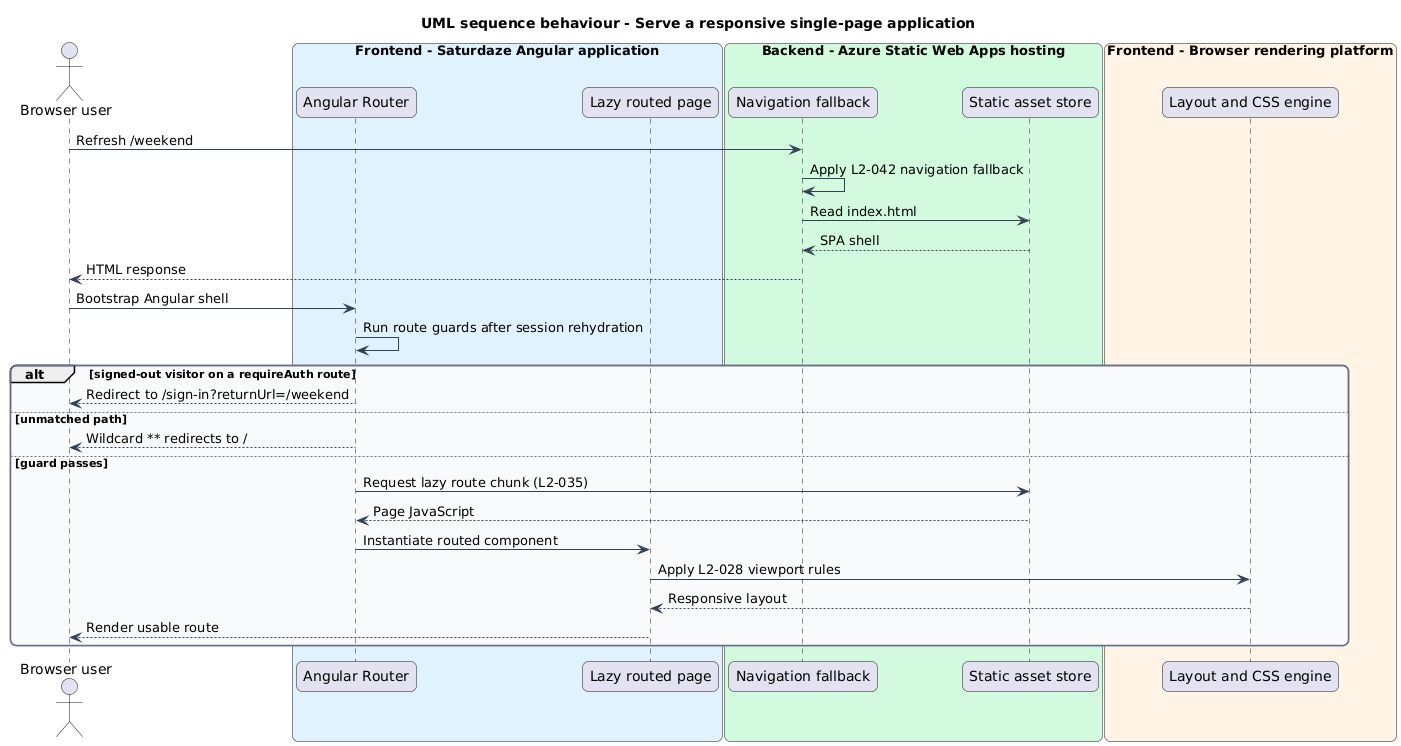
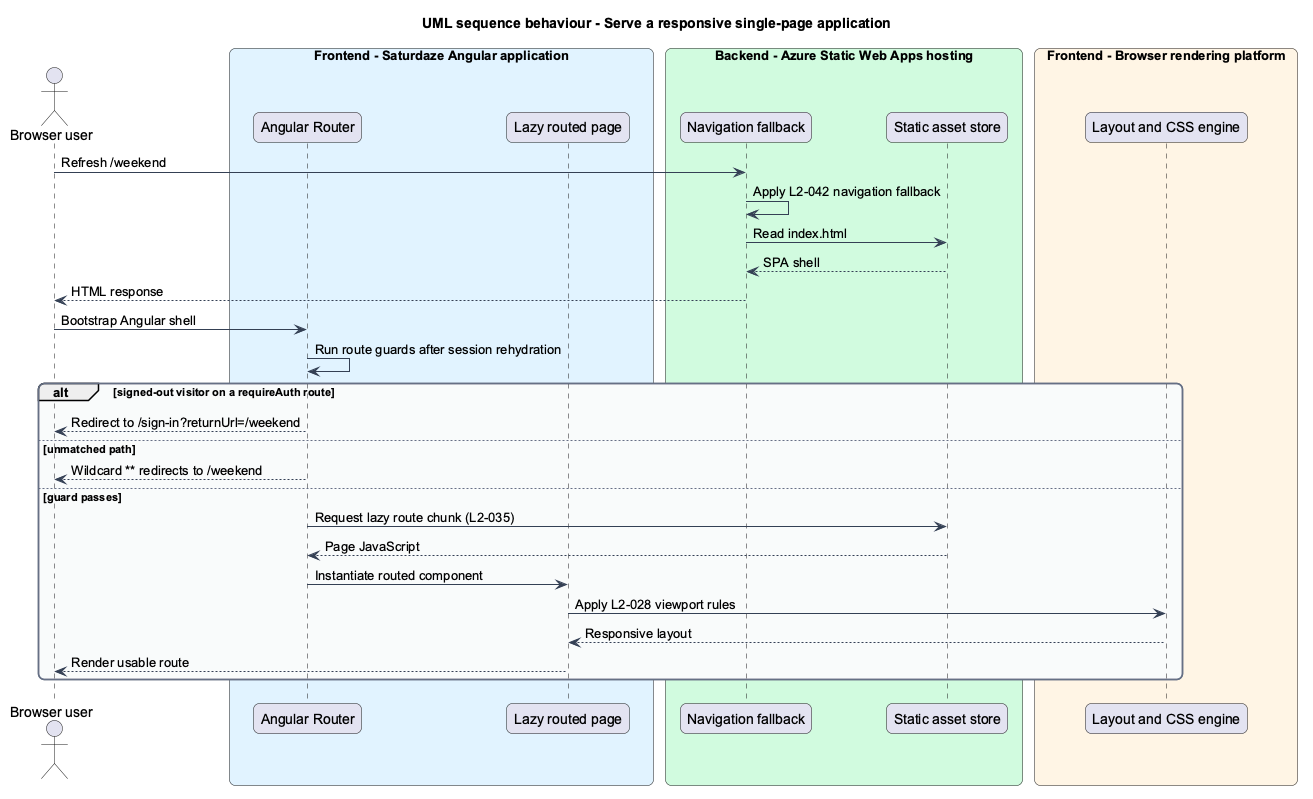
Decide and specify the marketing site at www.saturdaze.ca (ADR-018, L2-150 to L2-156)
Records the decision to move the landing page out of the Angular app into a
static site on a fourth Static Web App, with the app at app.saturdaze.ca,
adds the requirements and the detailed design, and revises L2-028, L2-035,
L2-041 and L2-138 to match.

diff --git a/docs/specs/L2.md b/docs/specs/L2.md
@@ -340,7 +340,7 @@ The `/past` page shall list activities that appeared in a past weekend rated ≤
 ## L2-028: All pages render correctly at every breakpoint
 **Traces to:** L1-011
 
-Every routed page (`/`, `/weekend`, `/ideas`, `/ideas/food`, `/ideas/events`, `/past`, `/family`, `/review-submissions`, `/legal`, `/sample-weekend`, all auth pages) shall render usably at viewport widths 320 px, 390 px, 820 px, 1440 px, and 1920 px. (Revised 2026-09-02 with the v2 design, [ADR-009](/docs/adr/ADR-009-v2-responsive-shell.md): the v1 split view is gone; the shell is a top bar from 720 px and a bottom nav below it.)
+Every routed page (`/weekend`, `/ideas`, `/ideas/food`, `/ideas/events`, `/past`, `/family`, `/review-submissions`, `/legal`, `/sample-weekend`, all auth pages) shall render usably at viewport widths 320 px, 390 px, 820 px, 1440 px, and 1920 px. (Revised 2026-09-02 with the v2 design, [ADR-009](/docs/adr/ADR-009-v2-responsive-shell.md): the v1 split view is gone; the shell is a top bar from 720 px and a bottom nav below it. Revised 2026-10-20: `/` is a redirect since the landing page moved to the marketing site, L2-155.)
 
 **Acceptance Criteria:**
 1. Given viewport 320×568, when any page is rendered, then no element shall overflow the horizontal viewport (no horizontal scroll).
@@ -348,7 +348,7 @@ Every routed page (`/`, `/weekend`, `/ideas`, `/ideas/food`, `/ideas/events`, `/
 3. Given viewport <720 px, when `/weekend` is rendered, then the map shall sit above the selected day's timeline in a single column, the bottom nav shall be present and clear of the device chrome (ADR-005), and each block row shall expose its details through the chevron rather than hover actions.
 4. Given viewport ≥720 px on a device with no hover (`hover: none`, such as a touch tablet), when `/weekend` is rendered, then each planner block's actions (Why this, Swap, Lock) shall be visible without hovering or focusing the block. On devices that hover, they stay hidden until the block is hovered or holds focus. (Added 2026-10-11, design drift D21.)
 5. Given a browser whose default text size is raised to 20 px (125 %), when a page is rendered in a window 820 px wide (41rem), then the layout shall be the one for widths under 720 px at the default size (bottom navigation present, top bar absent), and text sized from the type scale shall grow with it (a 26 px page title renders at 32.5 px). Breakpoints are 23.75 / 36 / 45 / 64rem and type sizes are in rem, so a reader's text size is honoured (WCAG 1.4.4). (Added 2026-10-11, design drift D24.)
-6. Given visual baselines captured from `docs/mocks-v2/` with `SD_BASELINE=1`, when the Playwright visual specs run, then each compared region shall match its baseline within the configured pixel-diff tolerance (the tiers and masks are [ADR-010](/docs/adr/ADR-010-visual-parity-policy.md)).
+6. Given visual baselines captured from `docs/mocks/` with `SD_BASELINE=1`, when the Playwright visual specs run, then each compared region shall match its baseline within the configured pixel-diff tolerance (the tiers and masks are [ADR-010](/docs/adr/ADR-010-visual-parity-policy.md)).
 
 ---
 
@@ -420,7 +420,7 @@ Read endpoints shall respond within 500 ms p95 on warm cache; write endpoints wi
 ## L2-035: Angular routes are lazy-loaded
 **Traces to:** L1-013
 
-Every rendered route component, including the landing page, shall be lazy-loaded via `loadComponent`, so the initial bundle excludes those pages' code.
+Every rendered route component shall be lazy-loaded via `loadComponent`, so the initial bundle excludes those pages' code. (Revised 2026-10-20: the landing page left the app for the marketing site, L2-155.)
 
 **Acceptance Criteria:**
 1. Given a production `ng build`, when the build output is inspected, then the output shall contain lazy route chunks for the current rendered pages, including `/sign-in`, `/create-account`, `/weekend`, `/ideas`, `/ideas/food`, `/ideas/events`, `/past`, and `/family`; redirect-only legacy paths shall not create page chunks.
@@ -492,7 +492,7 @@ Upstream provider exceptions (HTTP, JSON, timeout) shall be caught, logged at wa
 The `.github/workflows/deploy.yml` workflow shall run test gates on every push to `main`, then converge the Azure resource group on `eng/infra/main.bicep`, deploy the API together with the ingestion WebJob, apply EF migrations, deploy the Angular bundles, and smoke-test the result, in that order (ADR-017).
 
 **Acceptance Criteria:**
-1. Given passing backend and frontend gates, when deployment runs, then `infra`, `api`, `migrate`, `web`, `admin-web` and `smoke` shall succeed in dependency order.
+1. Given passing backend and frontend gates, when deployment runs, then `infra`, `api`, `migrate`, `web`, `admin-web`, `marketing-web` and `smoke` shall succeed in dependency order. (Revised 2026-10-20: `marketing-web`, L2-156.)
 2. Given a resource declared in `eng/infra/main.bicep` is absent from the resource group, when `infra` completes, then the resource shall exist and the later jobs shall deploy to it rather than being skipped.
 3. Given a database with all migrations applied, when migration runs, then it shall succeed without schema changes.
 4. Given a frontend upload, then its build output shall contain `staticwebapp.config.json` with SPA navigation fallback.
@@ -1404,10 +1404,10 @@ The numbered disc on a Weekend stop (L2-103) shall carry its meaning as text tha
 ## L2-138: Pages expose their landmarks and menu buttons
 **Traces to:** L1-014
 
-Pages shall expose their structure to assistive technology (WCAG 1.3.1, 4.1.2). The site footer on the landing and legal pages shall be the page's `contentinfo` landmark, placed outside `<main>`. A pager shall be a `navigation` landmark named "Pagination". A list of places or rows shall be a list (a `<ul>` or `role="list"` with list items). The account avatar in the top bar shall be a button that announces it opens a menu (`aria-haspopup="menu"`), named "Account menu".
+Pages shall expose their structure to assistive technology (WCAG 1.3.1, 4.1.2). The site footer on the legal page shall be the page's `contentinfo` landmark, placed outside `<main>`. A pager shall be a `navigation` landmark named "Pagination". A list of places or rows shall be a list (a `<ul>` or `role="list"` with list items). The account avatar in the top bar shall be a button that announces it opens a menu (`aria-haspopup="menu"`), named "Account menu".
 
 **Acceptance Criteria:**
-1. Given the landing page, then the footer shall be a `contentinfo` landmark that is not inside `main`.
+1. Given the marketing page, then the footer shall be a `contentinfo` landmark that is not inside `main`. (Revised 2026-10-20: the landing page moved to the marketing site, L2-150.)
 2. Given the legal page, then the footer shall be a `contentinfo` landmark that is not inside `main`.
 3. Given a paged admin list, then its pager shall be a `navigation` landmark named "Pagination".
 4. Given the signed-in top bar, then the account button named "Account menu" shall have `aria-haspopup="menu"`.
@@ -1555,6 +1555,87 @@ When an administrator rejects a family's event suggestion, the submitter shall b
 3. Given that card, when the submitter taps "Dismiss", then `POST /api/events/submissions/{id}/dismiss` shall return 204, the card shall disappear, and it shall stay gone after a reload.
 4. Given another user's suggestion, when its dismiss endpoint is called, then the response shall be 404 and the suggestion shall not change.
 5. Given a rejection without a reason, when the card or the email is shown, then it shall say "No reason was given."
+
+---
+
+## L2-150: Marketing page sections and calls to action
+**Traces to:** L1-011
+
+The page at `https://www.saturdaze.ca/` is one static HTML file, `marketing/index.html`, outside the Angular workspace (ADR-018). Every call to action opens the app at `https://app.saturdaze.ca`.
+
+**Acceptance Criteria:**
+1. Given a visitor opens the page, then it shows, in order: a skip link; a sticky header with the Saturdaze wordmark, anchor links (How it works, Inside the app, For families) and "Open the app"; a hero; a "watch" section with the one-minute brand video; a three-step "how it works" section; an "inside the app" gallery of real screenshots; a "for families" grid; a final call to action; and a footer.
+2. Given the hero, then its level-1 heading reads "Two days. Already planned.", its primary link "Create your account" opens `https://app.saturdaze.ca/create-account`, it says "Free during the beta.", and its text link "See how it works" moves to the how-it-works section.
+3. Given the header and the final call to action, then "Open the app" and "Sign in" open `https://app.saturdaze.ca/sign-in`, and the final "Create your account" opens `https://app.saturdaze.ca/create-account`.
+4. Given the how-it-works section, then its heading reads "How a weekend comes together" and it lists three steps: "Tell us who is in the family", "Lock what does not move" and "Get a weekend every Friday".
+5. Given the gallery, then it shows four screenshots of the app (the weekend, ideas, the family and past weekends); every one loads, is shown undistorted and has alt text describing it.
+6. Given the for-families grid, then it covers commitments that do not move, ideas within a short drive, errands folded into the day, and the weather.
+7. Given the watch section, then its heading reads "Saturdaze in one minute." and it holds the brand video (`docs/videos/44-meet-saturdaze`) served from the site itself, with a poster frame and the browser's controls; it does not play on its own.
+8. Given the footer, then it links Terms to `https://app.saturdaze.ca/legal`, Privacy to `https://app.saturdaze.ca/legal#privacy` and Sign in to `https://app.saturdaze.ca/sign-in`, and it shows the current year.
+9. Given light or dark device appearance, then the page uses the Saturdaze tokens of that theme, generated from the TypeScript theme into `marketing/assets/tokens.css` (ADR-013).
+
+---
+
+## L2-151: Marketing page layout and mobile navigation
+**Traces to:** L1-011, L1-014
+
+**Acceptance Criteria:**
+1. Given a phone (390 px), tablet (820 px) or desktop (1440 px) width, when the page loads, then nothing scrolls sideways.
+2. Given a width below 64rem, then the anchor links are replaced by a button named "Open navigation" with `aria-controls="mobile-menu"` and `aria-expanded="false"`, and the closed menu is `inert`.
+3. Given the menu button has focus, when Enter is pressed, then the menu opens, the button is named "Close navigation" with `aria-expanded="true"`, and the menu's links can be reached.
+4. Given the menu is open, when Escape is pressed or a menu link is chosen, then the menu closes and is `inert` again.
+
+---
+
+## L2-152: Marketing page reduced motion
+**Traces to:** L1-011, L1-014
+
+**Acceptance Criteria:**
+1. Given motion is allowed, when a section scrolls into view, then it fades and rises into place.
+2. Given `prefers-reduced-motion: reduce`, when the page loads, then every section is fully visible at once, with no transition.
+
+---
+
+## L2-153: Marketing page metadata
+**Traces to:** L1-011
+
+**Acceptance Criteria:**
+1. Given the page, then it has a title, a description, a `theme-color` per colour scheme, a canonical link to `https://www.saturdaze.ca/`, Open Graph tags (type, url, title, description, and a 1200x630 `https://www.saturdaze.ca/assets/social-card.png` image with its size and alt), Twitter `summary_large_image` tags, and an SVG icon.
+2. Given `/robots.txt`, then it allows every agent and names `https://www.saturdaze.ca/sitemap.xml`.
+3. Given `/sitemap.xml`, then it lists `https://www.saturdaze.ca/`.
+
+---
+
+## L2-154: Marketing page security headers
+**Traces to:** L1-012
+
+**Acceptance Criteria:**
+1. Given any response from the marketing site, then it carries `Content-Security-Policy: default-src 'self'; base-uri 'self'; connect-src 'self'; font-src 'self'; form-action 'self'; frame-ancestors 'none'; img-src 'self' data:; object-src 'none'; script-src 'self'; style-src 'self'`, `Strict-Transport-Security`, `X-Content-Type-Options: nosniff`, `Referrer-Policy: strict-origin-when-cross-origin` and `Permissions-Policy: camera=(), geolocation=(), microphone=()`. The headers are declared in `marketing/staticwebapp.config.json`.
+2. Given the page loads under that policy, then nothing is blocked and no request leaves the page's origin: it has no inline scripts or styles, no third-party scripts or fonts, and no analytics.
+
+---
+
+## L2-155: The app lives at app.saturdaze.ca and no longer carries the landing page
+**Traces to:** L1-011
+
+The Angular app is served at `https://app.saturdaze.ca`; its landing page is retired in favour of the marketing site (ADR-018).
+
+**Acceptance Criteria:**
+1. Given an anonymous visitor, when they open `/`, then they land on `/sign-in?returnUrl=%2Fweekend`; given a signed-in user, when they open `/`, then they land on `/weekend`.
+2. Given an unknown path such as `/no-such-page`, when it is opened, then it is treated as `/` in AC1.
+3. Given a page with the site bar (such as `/legal`), then its wordmark links to the marketing site (`environment.siteUrl`, `https://www.saturdaze.ca/` in production); given an authentication page (such as `/sign-in`), then the brand and "Back to Saturdaze" link there too.
+4. Given an anonymous visitor opens `/sample-weekend` without a share token, then they land on `/sign-in`.
+5. Given production configuration, then e-mail is sent from `Saturdaze <no-reply@saturdaze.ca>`, share and invite links start with `https://app.saturdaze.ca/`, and the admin app's "Open Saturdaze" opens `https://app.saturdaze.ca`.
+
+---
+
+## L2-156: The marketing site is provisioned and deployed with the stack
+**Traces to:** L1-016
+
+**Acceptance Criteria:**
+1. Given `eng/infra/main.bicep`, then it declares a fourth Static Web App, `sd-www-<suffix>`, and binds `www.saturdaze.ca` (from `MARKETING_CUSTOM_DOMAIN`) and, when set, the apex (from `MARKETING_APEX_DOMAIN`) to it.
+2. Given a push to `main`, when `deploy.yml` runs, then a `marketing-web` job uploads `marketing/` to that app, and `smoke` loads its home page, finds "Two days" and a `Content-Security-Policy` header.
+3. Given the apex is bound, when `https://saturdaze.ca/` is requested, then it is answered with a permanent redirect to `https://www.saturdaze.ca/`.
 
 ---
 

diff --git a/docs/detailed-designs/web-experience/serve-marketing-site/README.md b/docs/detailed-designs/web-experience/serve-marketing-site/README.md
@@ -1,0 +1,91 @@
+# Serve the marketing site
+
+## Overview
+
+Saturdaze drafts a family's weekend around its commitments, the weather and the places nearby. Until now the only page that explained it lived inside the Angular app at `/`, so it shipped with the app, could carry no metadata of its own, and had no room for a video or screenshots.
+
+This feature, part of the `web-experience` subsystem, moves that page to a static site at `https://www.saturdaze.ca` and moves the app to `https://app.saturdaze.ca` (ADR-018). The page follows Shelfie's marketing page: one HTML file, one stylesheet, one small script, a one-minute brand video and real screenshots of the app. It lives outside the Angular workspace, so the components-library rule does not apply to it.
+
+*marketing site* — `marketing/` at the repository root, served at `https://www.saturdaze.ca/` from the Static Web App `sd-www-<suffix>`
+
+*app host* — `app.saturdaze.ca`, bound to the family Static Web App through `APP_CUSTOM_DOMAIN`
+
+*bare domain* — `saturdaze.ca` with no subdomain, which only redirects to `www`
+
+*site URL* — `environment.siteUrl` in the family app: `https://www.saturdaze.ca` in production, `http://localhost:4500` in development
+
+## Description
+
+### The page
+
+`marketing/index.html` holds, in order: a skip link; a sticky header with the wordmark, anchor links (How it works, Inside the app, For families), "Open the app" and a menu button; the hero ("Two days. Already planned.", "Create your account", "Free during the beta.", "See how it works") beside a screenshot of the Weekend screen inside a browser frame; "Saturdaze in one minute." with the brand video; the three steps carried over from the retired landing page; "Inside the app", four tinted cards with real screenshots; "For families", a grid on commitments, ideas within a short drive, errands and weather; a final call to action; and a footer with Terms, Privacy, Sign in and the year (`L2-150`). Every call to action is an absolute link to `https://app.saturdaze.ca`.
+
+`marketing/assets/tokens.css` is written by `npm run tokens` from the TypeScript theme (ADR-013), next to `_tokens.scss`, and `tokens:check` fails when it is stale. Light and dark follow the device exactly as in the app (`L2-150` AC9). `marketing/assets/saturdaze.css` reads only those tokens by role (`--colorBrandBackground` for fills, `--colorNeutralForeground2` for soft text). Card washes are classes (`tint-bg-*`), never inline styles, so `style-src 'self'` holds. The page uses the app's system font stack and ships no fonts. Below 64rem the anchor links give way to the menu button (`L2-151`).
+
+`marketing/assets/saturdaze.js` adds `reveal-ready` to `<html>`; toggles the menu, keeping `aria-expanded`, the button's name and the menu's `inert` in step, and closes it on Escape, on a menu link and when the window grows past 64rem; marks the header once scrolled; reveals `[data-reveal]` sections with an `IntersectionObserver`, or all at once under reduced motion; and writes the footer year (`L2-151`, `L2-152`).
+
+The head carries a title, description, `theme-color` per scheme, a canonical link, Open Graph and Twitter `summary_large_image` tags with `assets/social-card.png` (1200x630) and `assets/icon.svg`; `robots.txt` and `sitemap.xml` sit beside it (`L2-153`).
+
+### Headers
+
+`marketing/staticwebapp.config.json` declares `globalHeaders`: the Content-Security-Policy (`default-src 'self'`, `script-src 'self'`, `style-src 'self'`, `img-src 'self' data:`, `frame-ancestors 'none'`, `object-src 'none'`), `Strict-Transport-Security`, `X-Content-Type-Options`, `Referrer-Policy` and `Permissions-Policy` (`L2-154`). It has no navigation fallback, so an unknown path is a 404. A few muscle-memory paths (`/sign-in`, `/create-account`, `/legal`, `/weekend`) redirect to the app host; e-mailed links never use them, because the API builds them on `Share:AppOrigin`.
+
+### Media
+
+The video is `docs/videos/44-meet-saturdaze`, recorded from the real app with `tools/video-record` and narrated with Azure Speech `en-US-JennyNeural` (`cheerful`, `-5%`) through the `azure` engine of `tools/video-audio/generate-audio.mjs`. The built MP4 is copied to `marketing/assets/video/meet-saturdaze.mp4`, and its poster is one frame taken with `ffmpeg`. The page's `<video>` has `controls`, `playsinline`, `preload="metadata"` and a poster, and no `autoplay` (`L2-150` AC7). `tools/marketing-screenshots/capture.mjs` signs in the seeded family, captures the Weekend, Ideas, Family and Past screens and renders `social-card.html` to `assets/social-card.png`.
+
+### The app
+
+`app.routes.ts` loses the landing route: `/` and `**` redirect to `/weekend`, so `requireAuth` sends an anonymous visitor to `/sign-in?returnUrl=%2Fweekend` (`L2-155` AC1, AC2). `Sitebar` and `AuthShell` gain a `homeHref` input, `/` by default, rendered as a plain `href` on the wordmark and on "Back to Saturdaze"; the family app passes the site URL, the admin app keeps the default (`L2-155` AC3). The legal page, the shared weekend and the dialogs gallery keep the site shell.
+
+`saturdaze.app` becomes `saturdaze.ca` everywhere: the e-mail sender, the admin app's family-app link, the seed accounts and the sample URLs in stories. `Share:AppOrigin` already derives from `APP_CUSTOM_DOMAIN`, so share and invite links follow the variable (`L2-155` AC5).
+
+### Hosting and deploy
+
+`eng/infra/main.bicep` declares `marketingSwa` (`sd-www-<suffix>`, the same SKU as the others) with two optional custom domains, `marketingCustomDomain` and `marketingApexDomain`, and outputs its name and host. `deploy.yml` passes `MARKETING_CUSTOM_DOMAIN` and `MARKETING_APEX_DOMAIN` to the template, adds a `marketing-web` job that uploads `marketing/` like the `web` job uploads the Angular build, and extends `smoke` to load the page, check its headline and CSP header and, when the apex is bound, its redirect (`L2-156`).
+
+### DNS
+
+At Namecheap: `CNAME app` to the family app's default host, `CNAME www` to the marketing app's default host, `ALIAS @` to the marketing app's default host, and the `_dnsauth` TXT records Static Web Apps asks for. In the portal, `www.saturdaze.ca` is made the default domain so the apex redirects to it; if that does not hold, the apex is left unbound and a Namecheap URL redirect does the job (ADR-018).
+
+### Tests
+
+`e2e/fixtures/marketing-server.mjs` serves `marketing/` on port 4500 with the headers from `staticwebapp.config.json`, so a test sees what production would block. The Playwright project `marketing` runs `e2e/tests/marketing/`, with selectors in `e2e/pages/marketing.page.ts`: `marketing.spec.ts` covers the sections, links and video (`L2-150`), `marketing-layout.spec.ts` sideways scroll, the keyboard menu and reduced motion (`L2-151`, `L2-152`), and `marketing-metadata.spec.ts` the tags, robots, sitemap and a load under the policy with no violations and no off-origin requests (`L2-153`, `L2-154`). `marketing.visual.spec.ts` compares the page with `docs/mocks/pages/marketing.html` (ADR-010). `route-guards.spec.ts`, `legal.spec.ts`, `sign-in.spec.ts` and `shared-weekend.spec.ts` cover `L2-155`.
+
+## Requirements
+
+| L2 ID | Refines (L1) | Requirement |
+|-------|--------------|-------------|
+| `L2-150` | `L1-011` | Marketing page sections and calls to action to `app.saturdaze.ca` |
+| `L2-151` | `L1-011`, `L1-014` | No sideways scroll at phone, tablet and desktop widths; labelled, keyboard-operable, `inert` mobile menu |
+| `L2-152` | `L1-011`, `L1-014` | Reveal on scroll, switched off under reduced motion |
+| `L2-153` | `L1-011` | Meta, Open Graph, Twitter and canonical tags; `robots.txt`; `sitemap.xml` |
+| `L2-154` | `L1-012` | Strict CSP and security headers; no third-party requests |
+| `L2-155` | `L1-011` | The app at `app.saturdaze.ca` without the landing page; links back to the marketing site |
+| `L2-156` | `L1-016` | A fourth Static Web App, its domains, its deploy job and smoke checks |
+
+## Diagrams
+
+### System context
+
+Visitors read the marketing site; family members use the app; Namecheap holds the records; Static Web Apps serves both sites.
+
+![C4 system context for serving the marketing site](diagrams/c4-context.png)
+
+### Containers
+
+Four Static Web Apps and the API in one resource group. The marketing site never calls the API.
+
+![C4 container view for serving the marketing site](diagrams/c4-container.png)
+
+### Behaviour — a request to the bare domain
+
+The apex answers with a permanent redirect to `www`, which serves the page with its security headers.
+
+![Sequence diagram for the bare-domain redirect](diagrams/sequence-bare-domain-redirect.png)
+
+### Behaviour — a push to main deploys the marketing site
+
+The template converges the fourth app; `marketing-web` uploads the folder; `smoke` checks the page and the redirect.
+
+![Sequence diagram for deploying the marketing site](diagrams/sequence-deploy.png)

diff --git a/docs/adr/ADR-018-marketing-site-and-app-host.md b/docs/adr/ADR-018-marketing-site-and-app-host.md
@@ -1,0 +1,57 @@
+# ADR-018 — A static marketing site at www.saturdaze.ca, and the app moves to app.saturdaze.ca
+
+**Status:** Accepted
+**Date:** 2026-10-20
+**Category:** operations
+**Deciders:** Quinntyne Brown
+**Related:** [ADR-009](ADR-009-v2-responsive-shell.md) (site shell), [ADR-010](ADR-010-visual-parity-policy.md) (visual parity), [ADR-013](ADR-013-fluent-design-tokens.md) (tokens), [ADR-017](ADR-017-production-hosting-and-continuous-deployment.md) (hosting), L2-150 to L2-156.
+
+## Context
+
+The only page that tells a family what Saturdaze is lives inside the Angular app: the landing page at `/`, guarded so signed-in users skip it. It ships with the app's bundle, it cannot be indexed or shared on its own, and it has no room for a video, screenshots or Open Graph tags. Shelfie solved the same problem with a static marketing page at `www.shelfie.kids` and the app at `app.shelfie.kids`; Saturdaze follows that shape on its own hosting (ADR-017). The domain is `saturdaze.ca`, held at Namecheap; `saturdaze.app`, named in ADR-017, was never bound.
+
+## Decision
+
+1. **Hosts.** `https://www.saturdaze.ca` serves the marketing page. `https://app.saturdaze.ca` serves the Angular app. The bare domain `saturdaze.ca` redirects permanently to `https://www.saturdaze.ca/`. The API keeps its own host; it never served the marketing page.
+2. **A fourth Static Web App.** `eng/infra/main.bicep` declares `sd-www-<suffix>` beside the family, admin and design-system apps, on the same SKU parameter. `www.saturdaze.ca` and the apex bind to it through `marketingCustomDomain` and `marketingApexDomain`; `app.saturdaze.ca` binds to the family app through the existing `appCustomDomain`. `deploy.yml` uploads `marketing/` in a `marketing-web` job and the smoke job loads the page and checks its security headers.
+3. **Static page outside the workspace.** `marketing/` holds plain HTML, CSS and JavaScript with no framework and no build. It is not an Angular project, so the components-library rule does not apply to it. Its `staticwebapp.config.json` sets a strict Content-Security-Policy (`default-src 'self'`, no inline script or style) and the other security headers, so the page has no inline code and no third-party requests.
+4. **Tokens are generated, not copied.** `npm run tokens` writes `marketing/assets/tokens.css` from the same TypeScript theme as `_tokens.scss`, and `tokens:check` fails CI when it is stale. Shelfie copies its token file by hand and lists that as a cost; here the theme stays the single source (ADR-013).
+5. **The landing page leaves the app.** `/` and every unknown path redirect to `/weekend`; `requireAuth` sends an anonymous visitor on to `/sign-in?returnUrl=%2Fweekend`. The site bar wordmark and the auth shell's "Back to Saturdaze" link to the marketing site through `environment.siteUrl`. The legal page, the shared weekend and the dialogs gallery keep the site shell.
+6. **One domain everywhere.** E-mail is sent from `no-reply@saturdaze.ca`, share and invite links are built on `https://app.saturdaze.ca` (`Share:AppOrigin`, derived from `APP_CUSTOM_DOMAIN`), the admin app links to it, and the seed accounts use `@saturdaze.ca` addresses.
+7. **A brand video.** "Meet Saturdaze" (`docs/videos/44-meet-saturdaze`) is recorded from the real app and narrated with Azure Speech `en-US-JennyNeural`, `cheerful` style, rate `-5%`, the voice Shelfie's brand video uses. `tools/video-audio/generate-audio.mjs` gains an `azure` engine for it; the other videos keep the free Edge voices. The page serves the MP4 itself with a poster and the browser's controls; it does not autoplay.
+
+## Options Considered
+
+### Option 1: Static site on a fourth Static Web App (chosen)
+- **Pros:** Same platform, same Bicep, same OIDC deploy; Free tier costs nothing; headers are declared in the repo.
+- **Cons:** Static Web Apps has no first-class apex-to-www redirect (see Risks).
+
+### Option 2: Keep the landing page in the Angular app
+- **Pros:** No new host.
+- **Cons:** The marketing page ships with the app, cannot carry its own metadata or strict CSP, and every copy change is an app release.
+
+### Option 3: Serve the marketing page from the family Static Web App under a path
+- **Pros:** One fewer resource.
+- **Cons:** One host cannot be both `www` and `app`; the SPA navigation fallback and the app's CSP would apply to the marketing page.
+
+## Consequences
+
+### Positive
+- A shareable, indexable page with Open Graph metadata, real screenshots and a one-minute video.
+- The app's initial route is the app; nothing in the bundle exists only for visitors.
+- Rolling the marketing page back is a revert of `marketing/`; it never touches the app.
+
+### Negative
+- Production's existing administrator row is `admin@saturdaze.app`. The seeder matches by e-mail, so before the first deploy with the renamed seed the row is renamed once: `UPDATE Users SET Email = 'admin@saturdaze.ca', NormalizedEmail = 'ADMIN@SATURDAZE.CA' WHERE Email = 'admin@saturdaze.app'` (adjust to the columns the `Users` table holds). Without it the seeder adds a second administrator.
+- The MP4 is committed twice (in `docs/videos/44-meet-saturdaze/` and `marketing/assets/video/`), a few megabytes each.
+- `marketing/` is outside `frontend/`, so the husky hook does not format it; CI runs Prettier on it explicitly.
+
+### Risks
+- **Apex redirect.** Static Web Apps documents binding an apex domain (TXT validation plus an ALIAS record, which Namecheap supports) but not an automatic redirect to `www`. The plan binds the apex to `sd-www-<suffix>` and makes `www.saturdaze.ca` the default domain in the portal, then checks `curl -sI https://saturdaze.ca/` for a 301 to `https://www.saturdaze.ca/`. If that does not hold, leave `MARKETING_APEX_DOMAIN` blank and use Namecheap's URL redirect record for `@`.
+
+## Implementation Notes
+
+- Repository variables: `APP_CUSTOM_DOMAIN=app.saturdaze.ca`, `MARKETING_CUSTOM_DOMAIN=www.saturdaze.ca`, `MARKETING_APEX_DOMAIN=saturdaze.ca`.
+- Namecheap records for `saturdaze.ca`: `CNAME app` → the family Static Web App's default host; `CNAME www` → the marketing Static Web App's default host; `ALIAS @` → the marketing default host; TXT `_dnsauth.app`, `_dnsauth.www` and `_dnsauth` with the tokens from `az staticwebapp hostname show -n <swa> -g saturdaze-rg --hostname <host> --query validationToken -o tsv`.
+- Local preview: `node e2e/fixtures/marketing-server.mjs ../marketing 4500` from `e2e/` serves the page with the production headers on `http://localhost:4500`, the dev `siteUrl`.
+- Narration: `export SPEECH_REGION=canadacentral SPEECH_KEY=…` then `node tools/video-audio/generate-audio.mjs docs/videos/44-meet-saturdaze --engine azure`.

diff --git a/docs/detailed-designs/web-experience/serve-responsive-spa/README.md b/docs/detailed-designs/web-experience/serve-responsive-spa/README.md
@@ -12,11 +12,11 @@ Saturdaze combines an Angular web application, an ASP.NET Core API, SQL Server p
 
 `app.routes.ts` lazily loads rendered pages and defines legacy redirects. `App` merges route data along the active path and selects app, site, or bare chrome.
 
-The app shell serves Weekend, Ideas, Past, Family, and Review submissions. Site chrome serves landing, legal, and shared-weekend pages; authentication uses bare chrome. `requireAnonymous`, `requireAuth`, and `requireAdmin` enforce route access.
+The app shell serves Weekend, Ideas, Past, Family, and Review submissions. Site chrome serves the legal and shared-weekend pages (the landing page moved to the marketing site, [serve-marketing-site](../serve-marketing-site/README.md)); authentication uses bare chrome. `requireAnonymous`, `requireAuth`, and `requireAdmin` enforce route access.
 
 Below 720 px, app routes use bottom navigation; from 720 px they use the top bar. The weekend's `.sd-grid-days` stacks days below 1024 px and sets two day columns from 1024 px. `_breakpoints.scss`, `_global.scss`, and component/page SCSS preserve the BEM class contract with `docs/mocks`.
 
-Legacy paths such as `/login`, `/profile`, `/saved`, and `/itinerary` redirect to `/sign-in`, `/family`, `/past`, and `/weekend`. The `**` wildcard redirects any unmatched path to `/`. The `/dialogs` gallery route and the dev state overrides exist only when `environment.galleryRoutes` is enabled; the production environment disables it.
+Legacy paths such as `/login`, `/profile`, `/saved`, and `/itinerary` redirect to `/sign-in`, `/family`, `/past`, and `/weekend`. `/` and the `**` wildcard redirect to `/weekend`, where `requireAuth` sends an anonymous visitor on to sign-in (L2-155). The `/dialogs` gallery route and the dev state overrides exist only when `environment.galleryRoutes` is enabled; the production environment disables it.
 
 `staticwebapp.config.json` provides deep-route fallback. ADR-010 defines visual tiers, masks, and mock-derived baselines; rendering bounds remain 320 through 1920 px.
 
@@ -32,8 +32,8 @@ The following L2 requirements refine the cited L1 capabilities. Implementation g
 
 | L2 ID | Refines (L1) | Requirement |
 |-------|--------------|-------------|
-| `L2-028` | `L1-011` | Every routed page (`/`, `/weekend`, `/ideas`, `/ideas/food`, `/ideas/events`, `/past`, `/family`, `/review-submissions`, `/legal`, `/sample-weekend`, all auth pages) shall render usably at viewport widths 320 px, 390 px, 820 px, 1440 px, and 1920 px. (Revised 2026-09-02 with the v2 design, [ADR-009](/docs/adr/ADR-009-v2-responsive-shell.md): the v1 split view is gone; the shell is a top bar from 720 px and a bottom nav below it.) |
-| `L2-035` | `L1-013` | Every rendered route component, including the landing page, shall be lazy-loaded via `loadComponent`, so the initial bundle excludes those pages' code. |
+| `L2-028` | `L1-011` | Every routed page (`/weekend`, `/ideas`, `/ideas/food`, `/ideas/events`, `/past`, `/family`, `/review-submissions`, `/legal`, `/sample-weekend`, all auth pages) shall render usably at viewport widths 320 px, 390 px, 820 px, 1440 px, and 1920 px. (Revised 2026-09-02 with the v2 design, [ADR-009](/docs/adr/ADR-009-v2-responsive-shell.md): the v1 split view is gone; the shell is a top bar from 720 px and a bottom nav below it.) |
+| `L2-035` | `L1-013` | Every rendered route component shall be lazy-loaded via `loadComponent`, so the initial bundle excludes those pages' code. |
 | `L2-042` | `L1-011`, `L1-016` | Refreshing any client-side route (e.g., `/sign-in`, `/weekend`, `/ideas/events`) on the Static Web App shall return the SPA shell, not a 404. |
 
 ## Diagrams

diff --git a/docs/adr/ADR-009-v2-responsive-shell.md b/docs/adr/ADR-009-v2-responsive-shell.md
@@ -19,7 +19,7 @@ The first design (`docs/mocks`, now deleted) was a phone app drawn inside a 440p
 | shell | chrome | routes |
 | --- | --- | --- |
 | `app` (default) | `sd-top-bar` from 720px, `sd-bottom-nav` below it | weekend, ideas, past, family, review-submissions |
-| `site` | `sd-sitebar` (brand, Sign in, optional CTA) | landing, legal, shared weekend, dialogs gallery |
+| `site` | `sd-sitebar` (brand, Sign in, optional CTA) | legal, shared weekend, dialogs gallery (landing until 2026-10-20, ADR-018) |
 | `bare` | none | sign-in, create-account, reset-password, verify-email |
 
 Route data is merged along `pathFromRoot`, so the Ideas children inherit `nav: 'ideas'`. The shell writes `body[data-shell]` and `body[data-page]`, which the mocks also carry, so the e2e harness can wait for a page the same way against both.
@@ -36,7 +36,7 @@ The mock's classes and ARIA state are the whole contract. Components do not refl
 
 ### 3. Per-component encapsulated SCSS, copied from the mock stylesheet
 
-Each component's SCSS is the matching block of `app.css` with `:host` / `:host(.modifier)` substitutions. Global SCSS holds only the reset, tokens and `sd-`-prefixed layout utilities (`.sd-frame`, `.sd-narrow`, `.sd-grid-days`, `.sd-grid-cards`, `.sd-vdivider` …). Single-use blocks (landing hero and steps, legal prose, the family grid, the review queue, the past strip, the dialogs gallery) live in the page that uses them. The production budget stays at 6kB warn / 10kB error per component style.
+Each component's SCSS is the matching block of `app.css` with `:host` / `:host(.modifier)` substitutions. Global SCSS holds only the reset, tokens and `sd-`-prefixed layout utilities (`.sd-frame`, `.sd-narrow`, `.sd-grid-days`, `.sd-grid-cards`, `.sd-vdivider` …). Single-use blocks (landing hero and steps until ADR-018 moved them to the marketing site, legal prose, the family grid, the review queue, the past strip, the dialogs gallery) live in the page that uses them. The production budget stays at 6kB warn / 10kB error per component style.
 
 Two component-authoring rules came out of the port and are worth keeping:
 

diff --git a/docs/detailed-designs/web-experience/support-accessible-interaction/README.md b/docs/detailed-designs/web-experience/support-accessible-interaction/README.md
@@ -34,7 +34,7 @@ The feature crosses the application and platform boundaries needed to deliver it
 
 - **`Error banner and field error`** — `sd-banner` takes `role` (`alert` for errors, `status` otherwise) and sets no `aria-live`; `alert` and `status` already imply their live regions, so a second declaration is removed. Error banners pass `icon="alert"` and `sd-text-input`'s error line draws the `alert` icon, never `close` (L2-136).
 
-- **`Landmarks and menu buttons`** — the app shell renders a `SiteFooter` (`app/shell/site-footer.ts`) after `<main>` when a route sets `data.footer`, so the landing and legal footers are `contentinfo` landmarks instead of generic footers inside `<main>`; `sd-pager` is a `navigation` named "Pagination" by default; `sd-list` and `sd-list-item` carry `role="list"` and `listitem`; the top bar's account button sets `aria-haspopup="menu"` (L2-138).
+- **`Landmarks and menu buttons`** — the app shell renders a `SiteFooter` (`app/shell/site-footer.ts`) after `<main>` when a route sets `data.footer`, so the legal footer is a `contentinfo` landmark instead of a generic footer inside `<main>` (the marketing site's footer is its own, L2-150); `sd-pager` is a `navigation` named "Pagination" by default; `sd-list` and `sd-list-item` carry `role="list"` and `listitem`; the top bar's account button sets `aria-haspopup="menu"` (L2-138).
 
 - **`Admin nav, field descriptions and duplicate chips`** — `sd-admin-nav`'s host takes `role="navigation"` with its `aria-label`; `sd-text-input`'s `aria-describedby` lists the error id when an error shows and the hint id only when the hint is rendered; `sd-chip-input` keeps the draft on a duplicate, sets `aria-invalid` and renders a `.field__error` "{value} is already in {label}." tied to the input with `aria-describedby`, clearing it when the draft changes or a chip is removed; `sd-skip-link` already focuses the target and prevents the `<base href>` navigation (L2-140).
 

diff --git a/docs/detailed-designs/operations/deploy-to-azure/README.md b/docs/detailed-designs/operations/deploy-to-azure/README.md
@@ -14,6 +14,8 @@ Saturdaze combines an Angular web application, an ASP.NET Core API, SQL Server p
 
 When `api_exists=true`, `api` publishes and deploys the API. `migrate` depends on successful API deployment, and `web` depends on migration plus frontend gates before uploading the existing Angular artifact through `Azure/static-web-apps-deploy` with the `SWA_DEPLOYMENT_TOKEN` secret. The artifact includes `staticwebapp.config.json` from `frontend/projects/saturdaze/public`, which supplies the SPA navigation fallback.
 
+A `marketing-web` job uploads the static `marketing/` folder to a fourth Static Web App, `sd-www-<suffix>`, with no build step and no fallback; `smoke` then loads the page and checks its headline and Content-Security-Policy (L2-156, ADR-018, [serve-marketing-site](../../web-experience/serve-marketing-site/README.md)).
+
 When the API Web App is absent, preflight emits a warning and summary, and the API/migration/web chain is skipped. Azure login failures fail preflight. The current probe treats every non-zero `az webapp show` result as an absent resource; authorization and transient probe errors can therefore also skip delivery. This classification is an implementation gap.
 
 `.github/workflows/ci.yml` runs validation on pull requests and non-main pushes. `eng/Start-FreshStack.ps1` is local tooling, not part of this hosted deployment.

diff --git a/docs/adr/ADR-017-production-hosting-and-continuous-deployment.md b/docs/adr/ADR-017-production-hosting-and-continuous-deployment.md
@@ -72,7 +72,7 @@ The ask is production-grade hosting at the lowest cost that still is production-
 - First time: `pwsh ./eng/Bootstrap-Azure.ps1 -OrganizationName "<legal name>" -BudgetAlertEmail <you>`. It creates the OIDC app registration, writes `.deploy/azure.env`, pushes the GitHub secrets and variables with `gh` when available, shows a what-if and deploys.
 - Afterwards: push to `main`. The run summary lists every host name and the CORS origins.
 - Change a tier: edit `eng/infra/main.bicepparam` (`apiSkuName`, `sqlSkuName`, `swaSkuName`) and push.
-- Bind the domain: set the `APP_CUSTOM_DOMAIN` repository variable to `saturdaze.app` after its TXT record exists.
+- Bind the domain: set the `APP_CUSTOM_DOMAIN` repository variable to `app.saturdaze.ca` after its TXT record exists. (2026-10-20: `saturdaze.app` was never bound; ADR-018 moves the app to `app.saturdaze.ca` and adds a fourth Static Web App for `www.saturdaze.ca`.)
 - Run ingestion now: Web App → WebJobs → `ingest` → Run, or `saturdaze ingest --type all` locally with the key from `.deploy/azure.env`.
 - Tear down to save money: `az group delete -n saturdaze-rg`, then `az cognitiveservices account purge` for the Foundry account (ADR-011). The next push rebuilds everything except the data.
 
